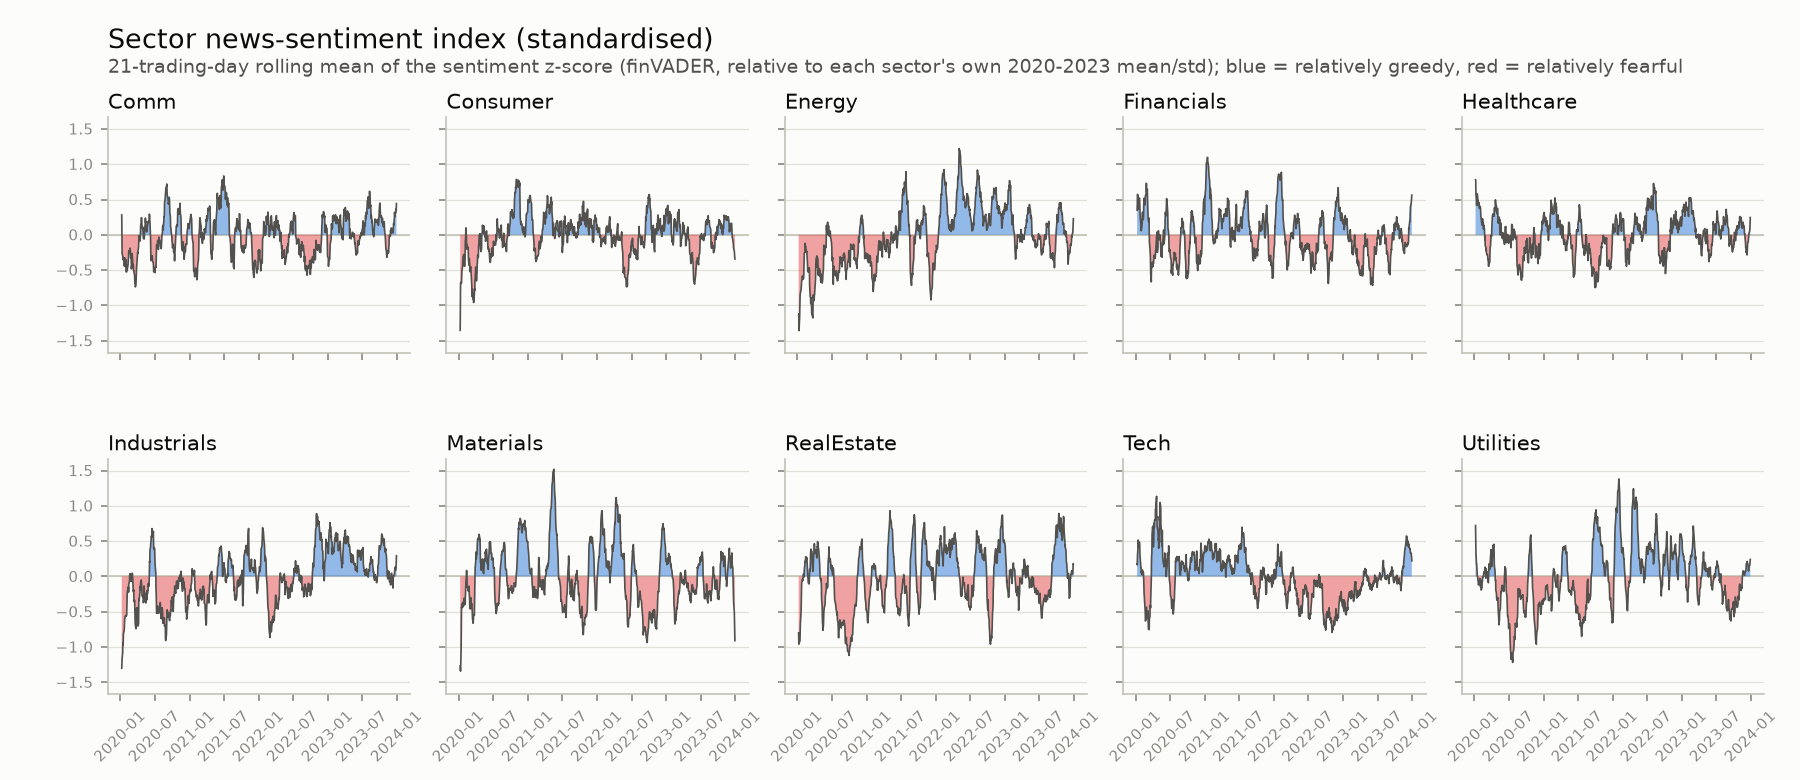
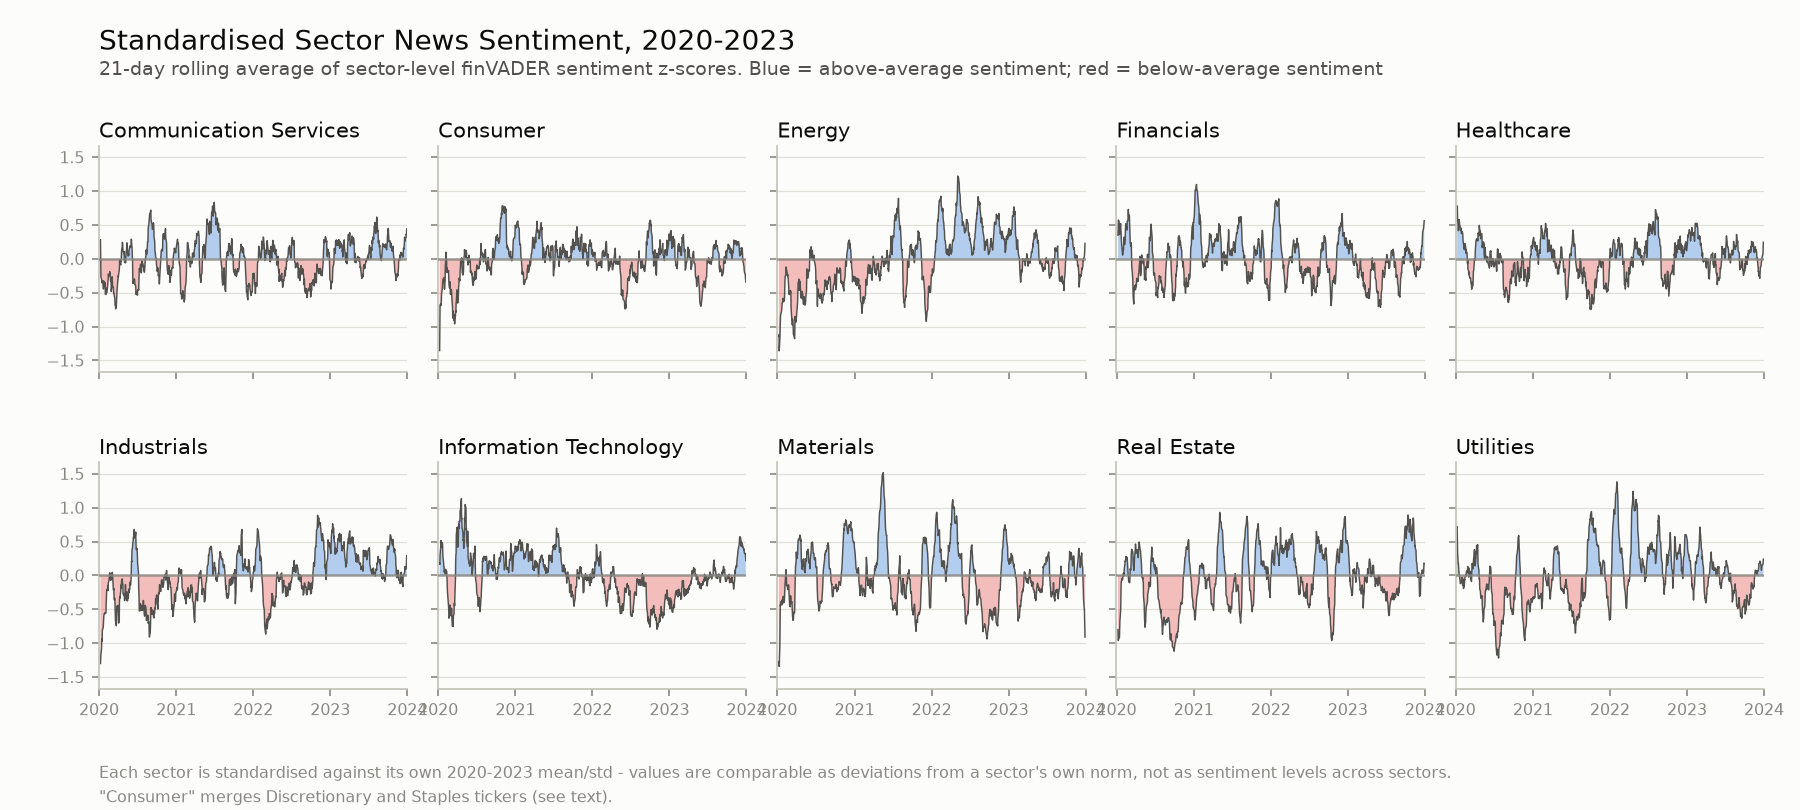
Rework sentiment index figure: terminology, GICS sector names/order, axis decluttering, standardisation caveat

diff --git a/scripts/run_part_b.py b/scripts/run_part_b.py
@@ -299,6 +299,17 @@ def sharpe_barplot_figure(perf_table: pd.DataFrame):
     plt.close(fig)
 
 
+SECTOR_DISPLAY_NAMES = {
+    "Comm": "Communication Services", "RealEstate": "Real Estate", "Tech": "Information Technology",
+}
+# GICS order, with Consumer left as one merged label - the course's "Consumer"
+# sector mixes Discretionary names (DIS, NKE, SBUX) and Staples names (WMT, KO),
+# so relabelling it as either official GICS sector would misstate the data; the
+# report text notes the merge instead of the chart pretending it's pure GICS.
+SECTOR_ORDER = ["Comm", "Consumer", "Energy", "Financials", "Healthcare", "Industrials",
+                "Tech", "Materials", "RealEstate", "Utilities"]
+
+
 def sentiment_index_figure(sector_index: pd.DataFrame):
     # 10 sectors as overlapping lines is a rainbow spaghetti chart - no single
     # sector is traceable and the legend does more work than the plot. Small
@@ -309,45 +320,65 @@ def sentiment_index_figure(sector_index: pd.DataFrame):
     # Plots the STANDARDISED index (z-score against each sector's own mean/
     # std), not the raw finVADER average: headlines are mildly positive on
     # average (as the course's own fear-and-greed index finds - raw scores
-    # read "greedy" on ~94% of days), so a raw index would sit above its
-    # zero line almost every day and never distinguish a relatively fearful
-    # day from a normal one. Standardising is what makes "relatively more
-    # fearful/greedy than usual for this sector" readable at all.
+    # read positive on ~94% of days), so a raw index would sit above its zero
+    # line almost every day and never distinguish an unusual day from a
+    # normal one. Standardising is what makes "more positive/negative than
+    # usual for THIS sector" readable - it does NOT make sectors comparable
+    # to each other in absolute terms (a caption note says so explicitly),
+    # since each is standardised against its own history, not a shared one.
+    # Deliberately not called a "fear and greed" index and not labelled
+    # greedy/fearful: this measures headline sentiment tone, not investor
+    # psychology, which the course's own fear-and-greed lecture treats as a
+    # related but distinct construct built from different inputs.
     surface, ink_primary, ink_secondary, ink_muted = "#fcfcfb", "#0b0b0b", "#52514e", "#898781"
     gridline, baseline, blue, red = "#e1e0d9", "#c3c2b7", "#2a78d6", "#e34948"
 
-    sectors = sorted(sector_index["sector"].unique())
+    sectors = [s for s in SECTOR_ORDER if s in sector_index["sector"].unique()]
     smoothed_all = sector_index.groupby("sector")["sentiment_index_z"].transform(
         lambda s: s.rolling(21, min_periods=5).mean())
     y_max = max(abs(smoothed_all.min()), abs(smoothed_all.max())) * 1.1
+    year_ticks = pd.date_range("2020-01-01", "2024-01-01", freq="YS")
 
-    fig, axes = plt.subplots(2, 5, figsize=(12, 5.2), sharex=True, sharey=True)
+    fig, axes = plt.subplots(2, 5, figsize=(12, 5.4), sharex=True, sharey=True)
     fig.patch.set_facecolor(surface)
-    fig.subplots_adjust(top=0.85, bottom=0.11, left=0.06, right=0.98, hspace=0.45, wspace=0.12)
+    fig.subplots_adjust(top=0.82, bottom=0.15, left=0.055, right=0.98, hspace=0.4, wspace=0.1)
 
-    for ax, sector in zip(axes.flat, sectors):
+    for i, (ax, sector) in enumerate(zip(axes.flat, sectors)):
         g = sector_index.loc[sector_index["sector"] == sector].sort_values("date")
         smoothed = g["sentiment_index_z"].rolling(21, min_periods=5).mean()
         ax.set_facecolor(surface)
-        ax.axhline(0, color=baseline, linewidth=0.8, zorder=1)
-        ax.fill_between(g["date"], smoothed, 0, where=(smoothed >= 0), color=blue, alpha=0.5, linewidth=0, zorder=1)
-        ax.fill_between(g["date"], smoothed, 0, where=(smoothed < 0), color=red, alpha=0.5, linewidth=0, zorder=1)
-        ax.plot(g["date"], smoothed, color=ink_secondary, linewidth=0.8, zorder=2)
+        ax.fill_between(g["date"], smoothed, 0, where=(smoothed >= 0), color=blue, alpha=0.35, linewidth=0, zorder=1)
+        ax.fill_between(g["date"], smoothed, 0, where=(smoothed < 0), color=red, alpha=0.35, linewidth=0, zorder=1)
+        ax.plot(g["date"], smoothed, color=ink_secondary, linewidth=0.7, zorder=2)
+        ax.axhline(0, color=ink_muted, linewidth=1.2, alpha=0.8, zorder=3)
         ax.set_ylim(-y_max, y_max)
-        ax.set_title(sector, fontsize=10, color=ink_primary, loc="left", pad=4)
+        ax.set_xlim(pd.Timestamp("2020-01-01"), pd.Timestamp("2024-01-01"))
+        ax.set_xticks(year_ticks)
+        ax.set_title(SECTOR_DISPLAY_NAMES.get(sector, sector), fontsize=10, color=ink_primary, loc="left", pad=4)
         for spine in ("top", "right"):
             ax.spines[spine].set_visible(False)
         for spine in ("left", "bottom"):
             ax.spines[spine].set_color(baseline)
         ax.grid(axis="y", color=gridline, linewidth=0.6, zorder=0)
         ax.set_axisbelow(True)
-        ax.tick_params(colors=ink_muted, labelsize=7)
-        ax.tick_params(axis="x", rotation=45)
+        ax.tick_params(colors=ink_muted, labelsize=7.5)
+        if i < 5:
+            ax.tick_params(axis="x", labelbottom=False)
+        else:
+            ax.tick_params(axis="x", rotation=0)
+            ax.set_xticklabels([d.strftime("%Y") for d in year_ticks])
+        if i % 5 != 0:
+            ax.tick_params(axis="y", labelleft=False)
 
-    fig.text(0.06, 0.965, "Sector news-sentiment index (standardised)", color=ink_primary, fontsize=13, ha="left", va="top")
-    fig.text(0.06, 0.925, "21-trading-day rolling mean of the sentiment z-score (finVADER, relative to each "
-                          "sector's own 2020-2023 mean/std); blue = relatively greedy, red = relatively fearful",
+    fig.text(0.055, 0.965, "Standardised Sector News Sentiment, 2020-2023", color=ink_primary, fontsize=13.5, ha="left", va="top")
+    fig.text(0.055, 0.925, "21-day rolling average of sector-level finVADER sentiment z-scores. "
+                           "Blue = above-average sentiment; red = below-average sentiment",
               color=ink_secondary, fontsize=9, ha="left", va="top")
+    fig.text(0.055, 0.035, "Each sector is standardised against its own 2020-2023 mean/std - values are "
+                           "comparable as deviations from a sector's own norm, not as sentiment levels across sectors.",
+              color=ink_muted, fontsize=7.5, ha="left", va="bottom")
+    fig.text(0.055, 0.005, "\"Consumer\" merges Discretionary and Staples tickers (see text).",
+              color=ink_muted, fontsize=7.5, ha="left", va="bottom")
 
     fig.savefig(RESULTS / "figures" / "sentiment_index.png", dpi=150, facecolor=surface)
     plt.close(fig)

diff --git a/ai/prompt_log.md b/ai/prompt_log.md
@@ -638,9 +638,9 @@ added to performance_metrics.csv, window/rebalance are pipeline
 constants).
 
 ## Prompt(s)
-- Pasted a review comment: current app covers the full investor journey
+- current app covers the full investor journey
   (compare/fact sheet/allocation/sentiment) but as an investment product
-  should add short disclosures (backtested != actual performance, past
+  should add short disclosures (backtested performance is not actual performance, past
   performance doesn't guarantee future results, costs/taxes/fees
   excluded, crypto materially riskier, sentiment is headline-only) and
   extra fact-sheet fields (first live backtest date, estimation window,
@@ -689,11 +689,7 @@ etc.) - inconsistent formatting in a table meant for a non-technical
 investor reader.
 
 ## Prompt(s)
-- Shared a screenshot of the rebooted, live app and asked "长成这样是对的
-  吗" (does it look right like this) - the deployed app was functioning
-  correctly (right numbers, disclosures present), but I noticed the
-  formatting inconsistency myself while reviewing the screenshot and
-  flagged and fixed it without being explicitly asked to.
+- The names of these four newly added column headers are still the original code variable names (with underscore-based naming conventions like “avg_turnover”), which don't match the formatted column names next to them, such as “Ann. return (%)” and “Sharpe.” They look a bit out of place. can you fix this
 
 ## What the assistant produced
 In streamlit_app.py: scaled avg_turnover and latest_max_weight to
@@ -715,3 +711,61 @@ effective holdings, matching the raw numbers already verified earlier).
 Purely cosmetic/readability - no underlying data changed. The point was
 consistency: a reader scanning the table should not hit a wall of
 unlabelled snake_case columns partway through an otherwise clean table.
+
+---
+
+# Prompt log - sentiment index figure: terminology, labelling, and readability pass
+
+## What I wanted
+Address an 11-point review of sentiment_index.png without accepting every
+point uncritically - some were real fixes, one (colour choice) I disagreed
+with against my own already-validated palette, and one (sector renaming)
+needed checking against the actual data before acting on it.
+
+## Prompt(s)
+- Pasted an 11-point review: (1) don't call it "greedy/fearful" since this
+  measures headline sentiment, not a Fear & Greed-style investor-
+  psychology index; (2) shorten the subtitle; (3) rename sectors to full
+  GICS names (Communication Services, Consumer Discretionary/Staples,
+  Real Estate, Information Technology), verifying which Consumer split
+  applies; (4)/(5) reduce axis-label crowding (date labels only on the
+  bottom row, y-labels only on the left column); (6) make the zero line
+  more prominent; (7) mute the fill colours and consider a colourblind-
+  safer blue/orange pair instead of blue/red; (8) order panels by GICS
+  sequence instead of alphabetical; (9) optional event markers (skippable
+  if short on space); (10) more direct title; (11) explicitly caption that
+  standardised z-scores are only comparable within a sector's own history,
+  not as absolute levels across sectors.
+
+## What the assistant produced
+Gave my own assessment of each point before changing anything, agreeing
+with 1/2/4/5/6/8/10/11, checking point 3 against context/DATA_GUIDE.md
+before acting (Comm/RealEstate/Tech map 1:1 to GICS names, but "Consumer"
+mixes Discretionary tickers - DIS, NKE, SBUX - with Staples tickers - WMT,
+KO - so relabelling it as either specific GICS sector would misstate the
+data; kept "Consumer" and added a caption note about the merge instead),
+skipped point 9 (event markers) as agreed-optional, and pushed back on
+half of point 7: kept the blue/red diverging pair since it is the
+validated diverging pair from the colour system already used consistently
+elsewhere in this report (blue/orange is a categorical, not diverging,
+pairing in that system), but did reduce fill opacity as suggested.
+Rebuilt sentiment_index_figure() with all the agreed changes: renamed
+sector titles, GICS-ordered panels, date ticks only on the bottom row
+(yearly, not rotated), value ticks only on the left column, a thicker/more
+opaque zero line, lower fill alpha, a shorter title/subtitle, and a
+two-line footnote (the standardisation caveat and the Consumer-merge note,
+split onto two lines after the first version overflowed the figure width).
+
+## What was wrong or risky
+The first version of the added footnote text was too long for the figure
+width at the given font size and got silently truncated off the right
+edge - caught by looking at the actual rendered PNG rather than assuming
+the fig.text() call worked because it didn't error. Fixed by splitting
+into two shorter fig.text() calls and increasing the bottom margin to fit
+both lines.
+
+## What I changed and why
+Every change here is presentation/labelling only - no underlying sentiment
+data, scores, or index values changed. Re-ran the full pipeline and
+check_handin.py (22 checks) to confirm nothing else broke from the
+function rewrite.
